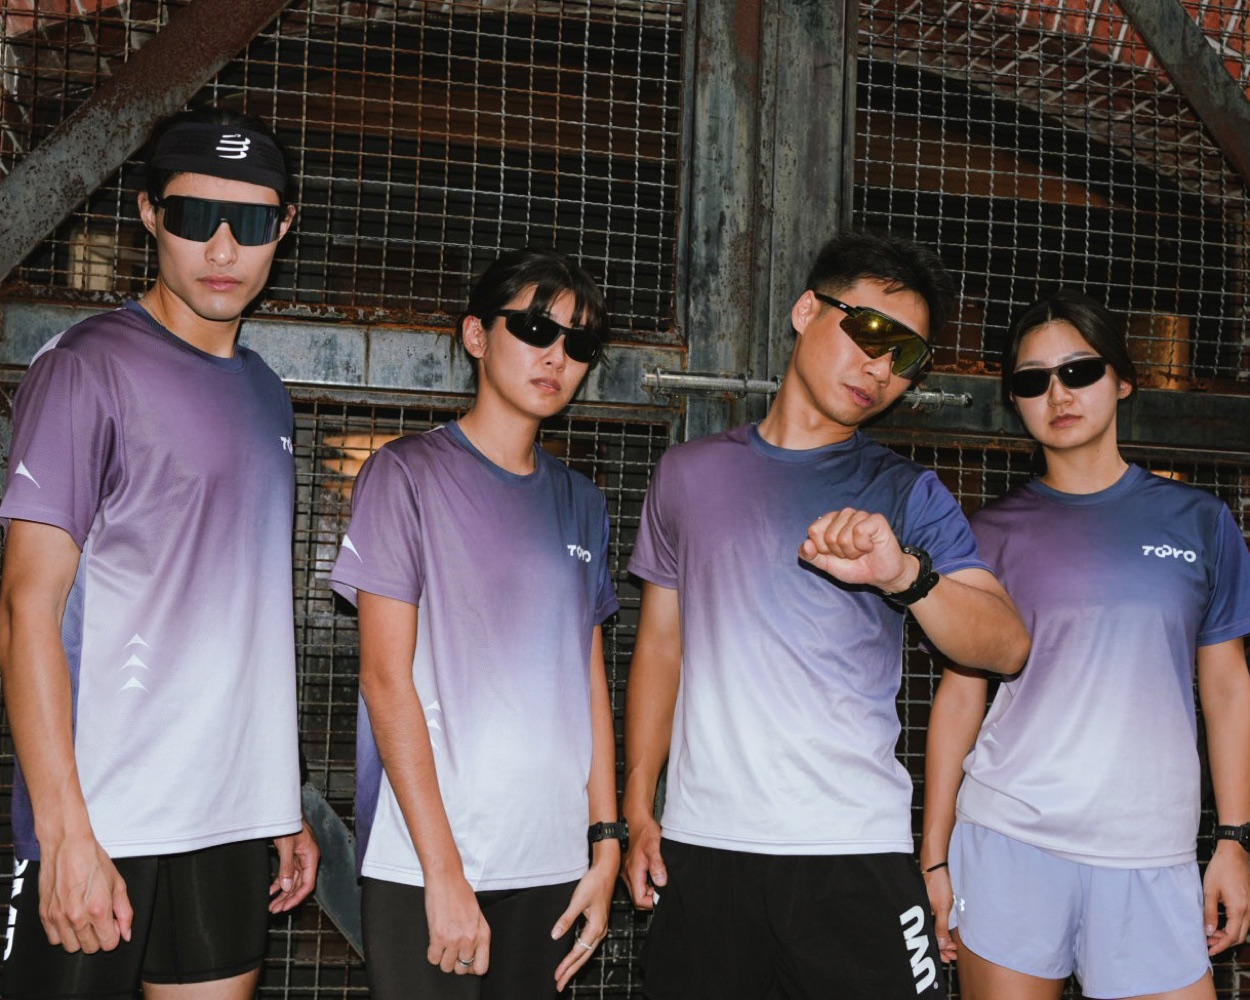
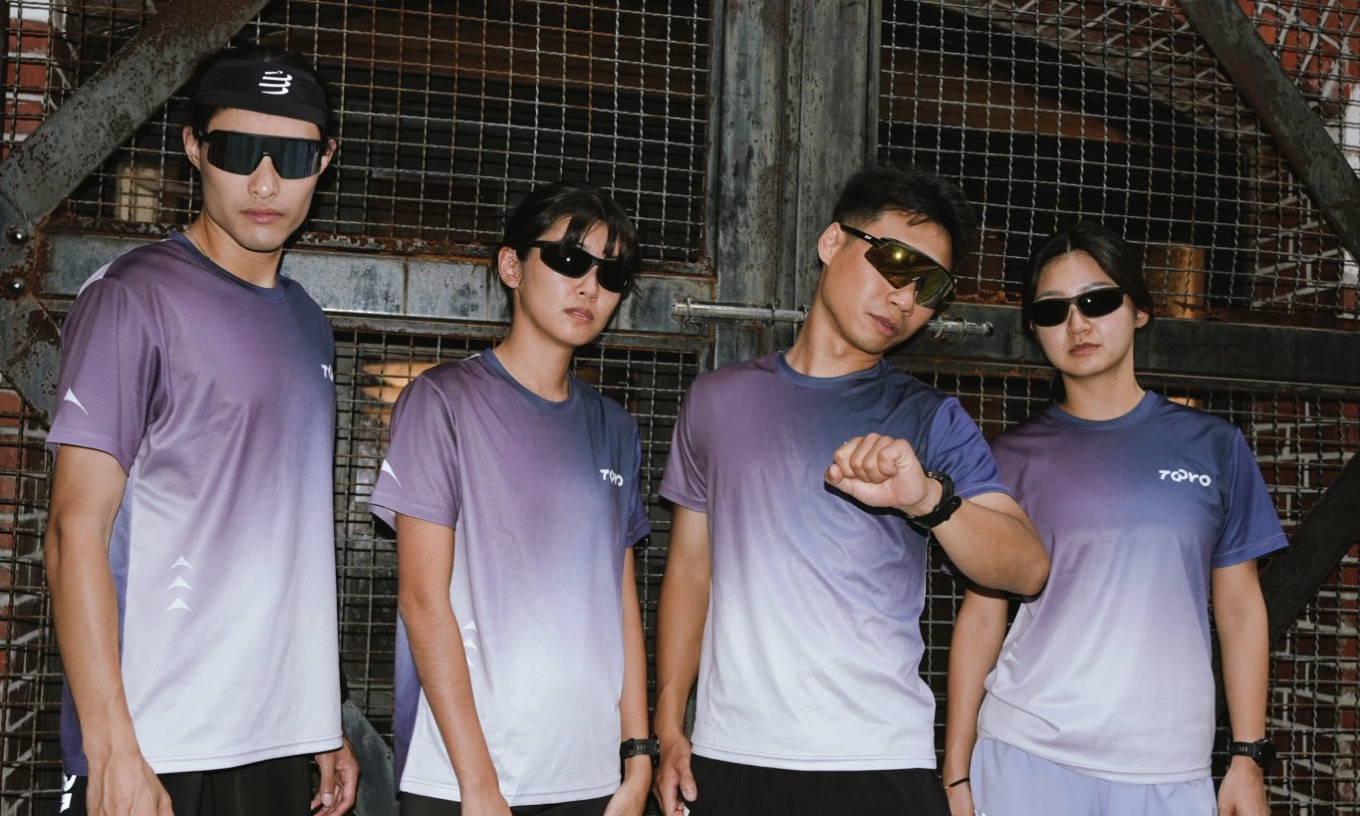
Update carousel photos and use 5:3 ratio

diff --git a/linkinbio.html b/linkinbio.html
@@ -8,7 +8,7 @@
 <link rel="icon" href="assets/favicon.svg" type="image/svg+xml">
 <link rel="apple-touch-icon" href="assets/apple-touch-icon.png">
 <link rel="stylesheet" href="css/style.css">
-<link rel="stylesheet" href="css/linkinbio.css">
+<link rel="stylesheet" href="css/linkinbio.css?v=2">
 </head>
 <body class="lib-body">
 
@@ -35,12 +35,12 @@
     TO PRO｜為熱愛三鐵而聚
   </p>
 
-  <!-- 輪播照片（比例 5:4）。要換照片：把 assets/carousel/ 裡的圖換成自己的（jpg/png/webp 都可），並修改下方 src；要增減張數就複製或刪除一個 <figure> -->
+  <!-- 輪播照片（比例 5:3）。要換照片：把 assets/carousel/ 裡的圖換成自己的（jpg/png/webp 都可），並修改下方 src；要增減張數就複製或刪除一個 <figure> -->
   <section class="lib-carousel" aria-label="活動照片">
     <div class="lib-carousel-track">
-      <figure class="lib-slide"><img src="assets/carousel/carousel-1.jpg" alt="TO PRO 團練大合照"></figure>
-      <figure class="lib-slide"><img src="assets/carousel/carousel-2.jpg" alt="TO PRO 團練跑步" loading="lazy"></figure>
-      <figure class="lib-slide"><img src="assets/carousel/carousel-3.jpg" alt="TO PRO 隊服" loading="lazy"></figure>
+      <figure class="lib-slide"><img src="assets/carousel/carousel-1.jpg?v=2" alt="TO PRO 團練跑步"></figure>
+      <figure class="lib-slide"><img src="assets/carousel/carousel-2.jpg?v=2" alt="TO PRO 團練大合照" loading="lazy"></figure>
+      <figure class="lib-slide"><img src="assets/carousel/carousel-3.jpg?v=2" alt="TO PRO 隊服" loading="lazy"></figure>
     </div>
     <div class="lib-carousel-dots"></div>
   </section>

diff --git a/css/linkinbio.css b/css/linkinbio.css
@@ -568,8 +568,8 @@
 }
 .event-cta{ width: 100%; justify-content: center; }
 
-/* 輪播照片：比例固定 5:4（寬:高） */
-.lib-carousel{ position: relative; aspect-ratio: 5 / 4; width: min(100vw, 620px); margin: 14px 0 14px calc(50% - min(100vw, 620px) / 2); overflow: hidden; }
+/* 輪播照片：比例固定 5:3（寬:高） */
+.lib-carousel{ position: relative; aspect-ratio: 5 / 3; width: min(100vw, 620px); margin: 14px 0 14px calc(50% - min(100vw, 620px) / 2); overflow: hidden; }
 /* 手機上左右貼齊螢幕邊緣（滿版），桌機上與頁面內容同寬（上限 620px），沒有圓角與外框 */
 .lib-carousel-track{
   position: absolute; inset: 0;
